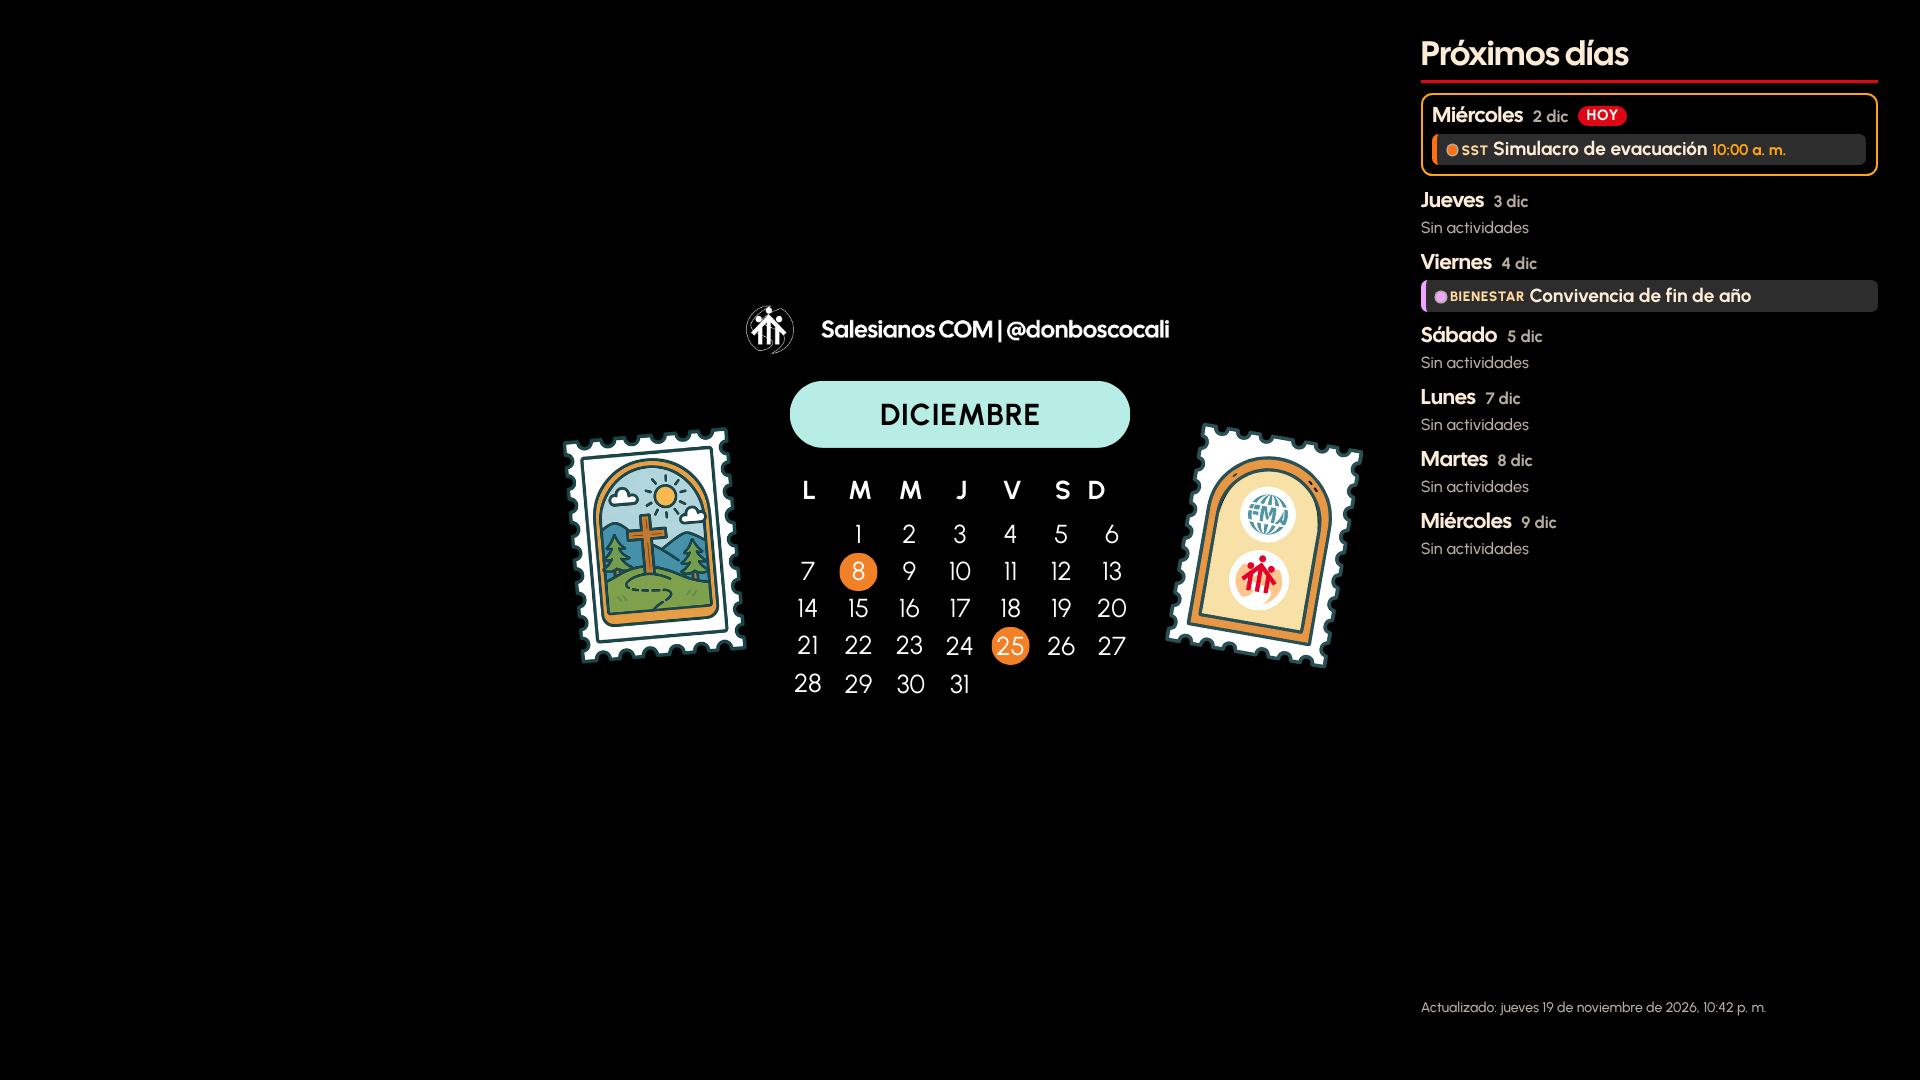
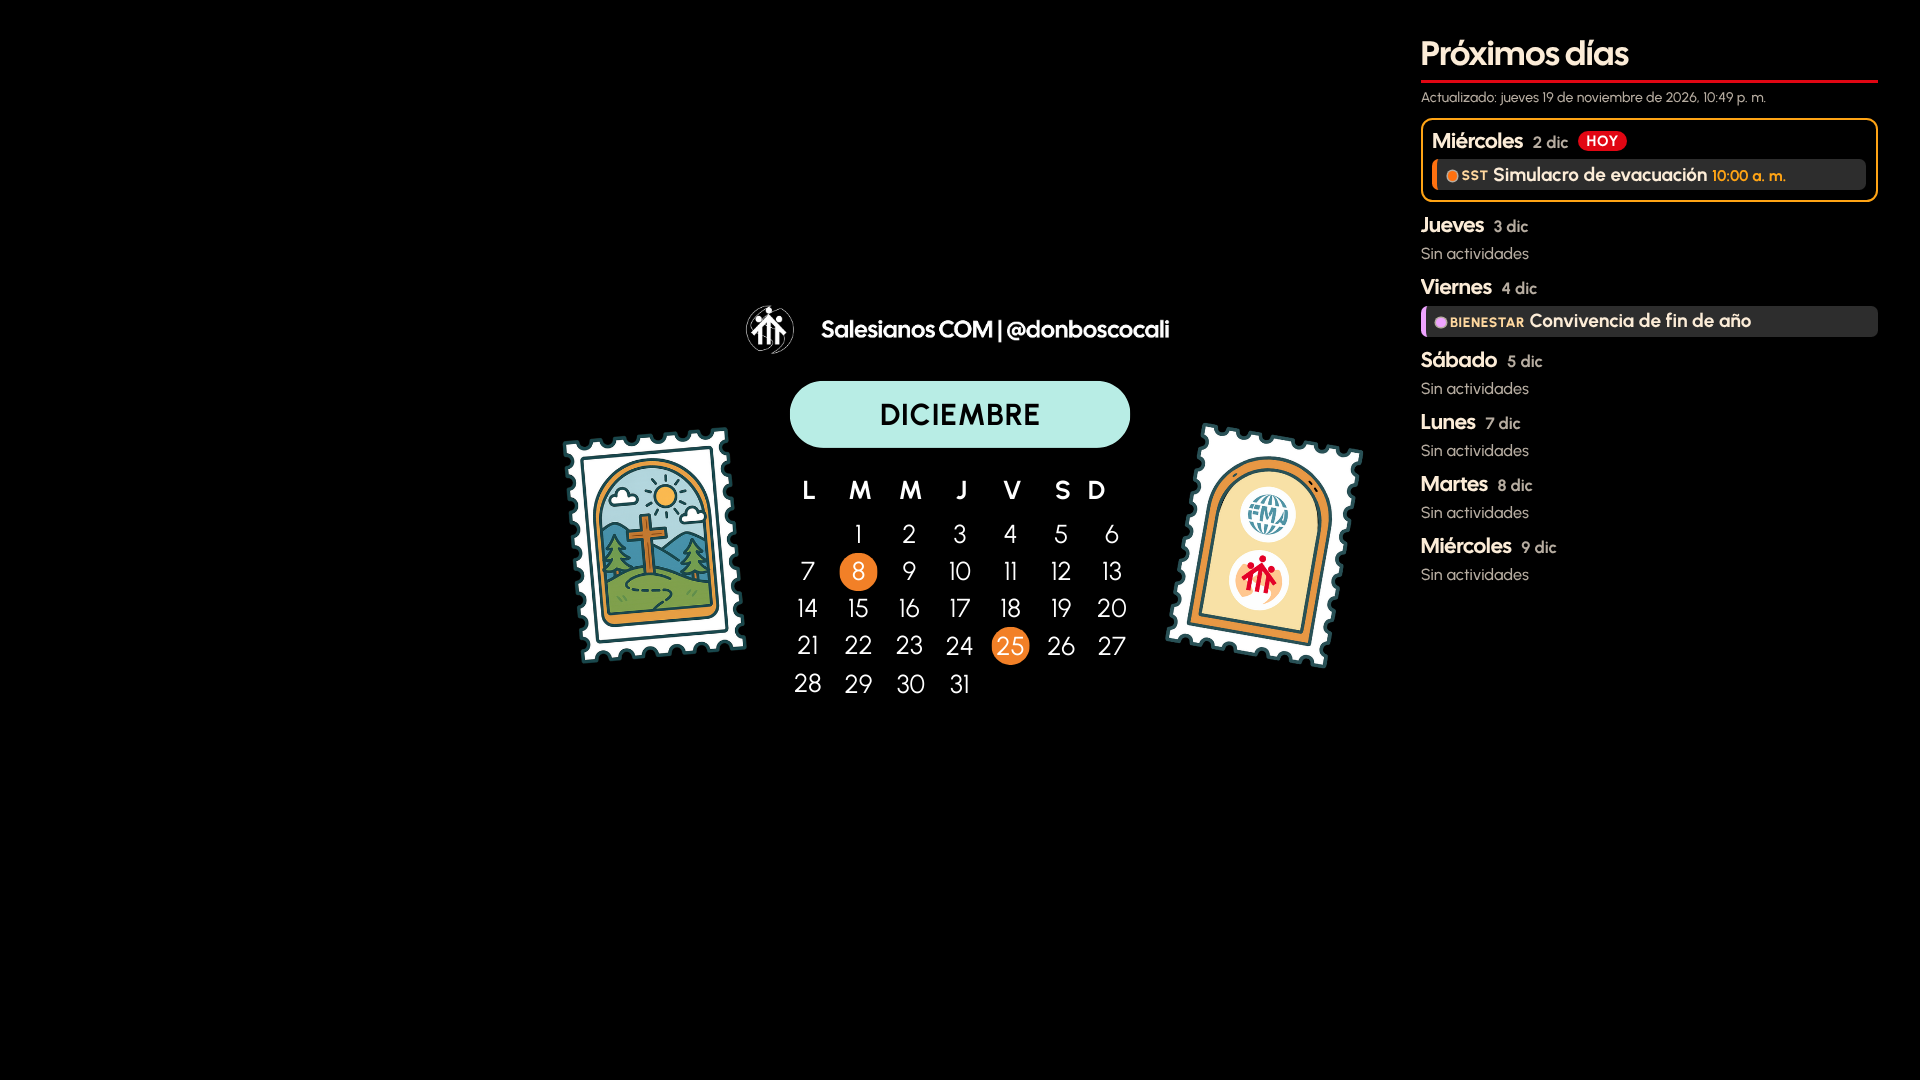
Fondo: fecha de actualización arriba, bajo el título
Así nunca la tapa la barra de tareas de Windows, sin importar su tamaño
ni la escala de pantalla del equipo.

Claude-Session: https://claude.ai/code/session_01CpKsLBCWWxBZQ4VvGmVzyZ

Changed region(s): [[0.7188, 0.0611, 1.0, 0.55], [0.75, 0.9167, 0.9062, 0.9472]]

diff --git a/fondo.html b/fondo.html
@@ -21,8 +21,8 @@
 
   <aside class="franja" id="franja" aria-label="Actividades de los próximos días">
     <h1 class="franja__titulo">Próximos días</h1>
+    <p class="franja__actualizado" id="pie"></p>
     <div class="franja__dias" id="dias"></div>
-    <p class="franja__pie" id="pie"></p>
   </aside>
 
   <script src="js/config.js?v=2026112001"></script>

diff --git a/css/fondo.css b/css/fondo.css
@@ -117,4 +117,5 @@ html, body {
   border-radius: .6em;
 }
 
-.franja__pie { margin: 0; font-size: calc(14 * var(--u)); color: var(--greige); }
+/* Arriba, bajo el título, para que nunca lo tape la barra de tareas. */
+.franja__actualizado { margin: calc(-4 * var(--u)) 0 calc(2 * var(--u)); font-size: calc(14 * var(--u)); color: var(--greige); }
